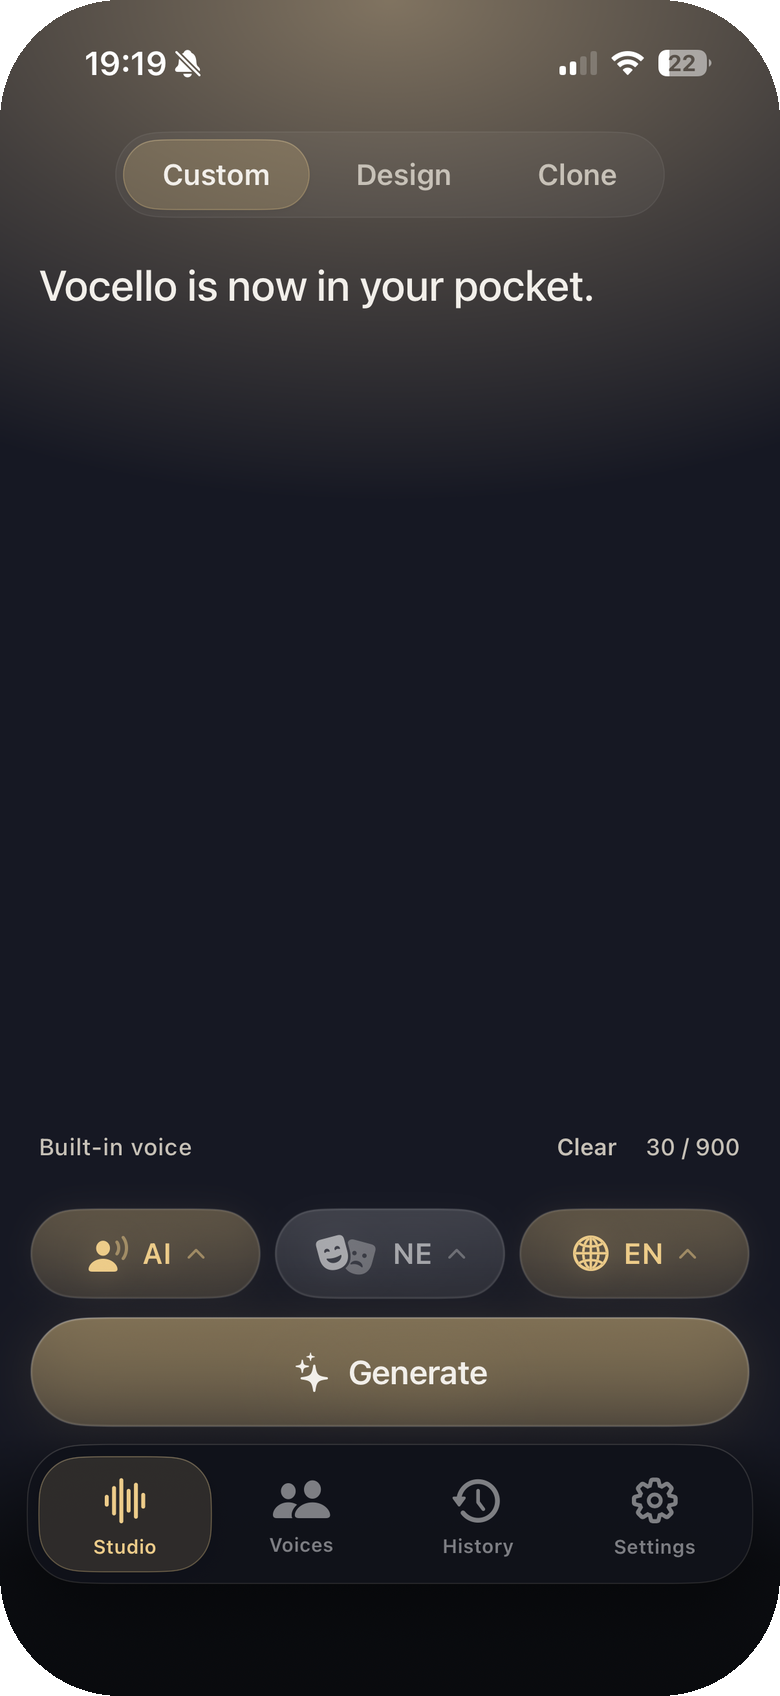
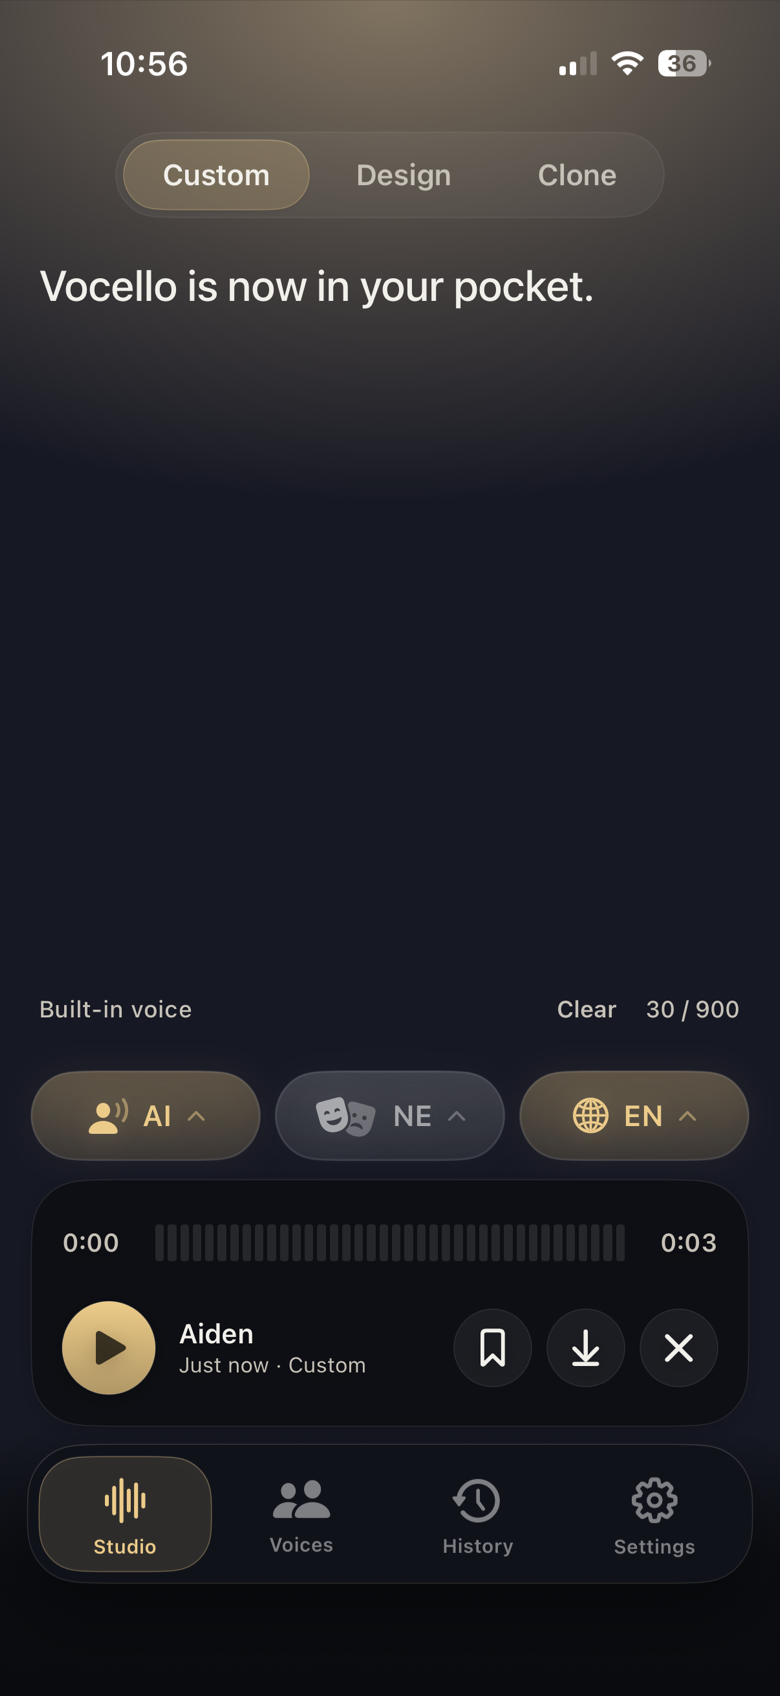
docs(ios): Tier-2 riders close — floor diagnostic, marketing recapture
The iPhone-15-Pro memory-profile diagnostic passes on the promoted
artifacts: custom 2380 MB and design 2878 MB peak phys-footprint against
the clamped 5000 MB floor budget (over 2.1 GB headroom, healthy pressure,
clean EOS; exploratory-only per the forced-profile policy). The iOS studio
marketing shot is recaptured through the new opt-in
VocelloiOSMarketingCaptureUITests (never lane-run): README and website now
show the completed inline-player state instead of the empty studio, at the
incumbent 780-width asset slot. Desktop fixture staging removed after
digest-verifying it duplicates the canonical voice store; the two staged
files in the phone's app Documents are noted for a manual Files-app
deletion since devicectl has no remove operation.

Claude-Session: https://claude.ai/code/session_01VKEyjULPhcNEtmtt3M4AMJ

diff --git a/Tests/VocelloiOSUITests/VocelloiOSMarketingCaptureUITests.swift b/Tests/VocelloiOSUITests/VocelloiOSMarketingCaptureUITests.swift
@@ -1,0 +1,37 @@
+import XCTest
+
+/// Marketing screenshot captures for the README and website (iOS studio).
+///
+/// Not part of any acceptance lane and never run by `scripts/ui_test.sh`:
+/// invoke explicitly with
+/// `-only-testing:VocelloiOSUITests/VocelloiOSMarketingCaptureUITests`.
+/// Drives only genuine visible controls (the same identifiers the smoke lane
+/// observes), attaches captures for asset export, and publishes nothing.
+/// Script copy must follow website/PRODUCT.md rules: local not offline, no em
+/// dashes, current preset names only.
+final class VocelloiOSMarketingCaptureUITests: VocelloiOSUITestCase {
+    func test01_StudioCapture() {
+        beginSession()
+        defer { endSession() }
+
+        assertVisibleModelReadiness()
+        prepare(mode: .custom)
+        replaceScript(with: "Vocello is now in your pocket.")
+
+        // Setup state: script + ready chips + Generate enabled.
+        let generate = element("textInput_generateButton")
+        XCTAssertTrue(VocelloUIWait.enabled(generate, timeout: 60))
+        let setupShot = XCTAttachment(screenshot: XCUIScreen.main.screenshot())
+        setupShot.name = "marketing-ios-studio-setup"
+        setupShot.lifetime = .keepAlways
+        add(setupShot)
+
+        // Completed state: the inline player over the same script shows the
+        // app alive rather than an empty studio.
+        _ = generateAndWaitForCompletedPlayer(timeout: 300)
+        let playerShot = XCTAttachment(screenshot: XCUIScreen.main.screenshot())
+        playerShot.name = "marketing-ios-studio-player"
+        playerShot.lifetime = .keepAlways
+        add(playerShot)
+    }
+}

diff --git a/benchmarks/HISTORY.md b/benchmarks/HISTORY.md
@@ -17,11 +17,23 @@ cross-project comparisons.
 |---|---|---|---|---|---|---:|---|---|---|---|
 | 2026-07-12 | [`ios-engine-20260712-204019-1f40cea8`](runs/engine-generation/ios-engine-20260712-204019-1f40cea8.json) | focused | exploratory | passed | memory-contract-incomplete | 1 | `1ef1669326b5` dirty | `excluded` | baseline | telemetry-v7-headless-final |
 
+## engine-generation / ios / iphone-17-pro / config `4be5479ddc2d`
+
+| completed (UTC) | run | scope | classification | status | memory | takes | source | comparison | trend | label |
+|---|---|---|---|---|---|---:|---|---|---|---|
+| 2026-08-01 | [`ios-engine-20260801-144252-d6160fd7`](runs/engine-generation/ios-engine-20260801-144252-d6160fd7.json) | focused | exploratory | passedWithWarnings | qualified-with-warnings | 1 | `1f9ebeccef8b` | `excluded` | baseline | i15p-floor-custom |
+
 ## engine-generation / ios / iphone-17-pro / config `528ba2c2cfe1`
 
 | completed (UTC) | run | scope | classification | status | memory | takes | source | comparison | trend | label |
 |---|---|---|---|---|---|---:|---|---|---|---|
 | 2026-07-24 | [`ios-engine-20260724-060000-1cc8ef23`](runs/engine-generation/ios-engine-20260724-060000-1cc8ef23.json) | focused | exploratory | passedWithWarnings | qualified-with-warnings | 1 | `f98537cd7115` dirty | `excluded` | baseline | limit-900-proof |
+
+## engine-generation / ios / iphone-17-pro / config `a6ae7ce54378`
+
+| completed (UTC) | run | scope | classification | status | memory | takes | source | comparison | trend | label |
+|---|---|---|---|---|---|---:|---|---|---|---|
+| 2026-08-01 | [`ios-engine-20260801-144748-9d129b7c`](runs/engine-generation/ios-engine-20260801-144748-9d129b7c.json) | focused | exploratory | passedWithWarnings | qualified-with-warnings | 1 | `1f9ebeccef8b` | `excluded` | baseline | i15p-floor-design2 |
 
 ## engine-generation / ios / iphone-17-pro / config `f1c8dc2684fb`
 

diff --git a/docs/development-progress.md b/docs/development-progress.md
@@ -84,7 +84,14 @@ performance block after the fixture rebind, Tier 4 carryover). Immediate specifi
    conservative-valid; the task checkpoint is authoritative over the roadmap's
    redundant re-qual listing). Every take carries only the familiar
    `memory.pressure.soft_trim` advisory plus one warn-level design-short dropout,
-   consistent with the R2a boundary finding.
+   consistent with the R2a boundary finding. Tier-2 riders also closed: the
+   iPhone-15-Pro floor-profile diagnostic (custom 2380 MB / design 2878 MB peak
+   against the clamped 5000 MB budget — over 2.1 GB headroom, healthy pressure;
+   exploratory-only by policy) and the iOS studio marketing recapture (README +
+   website now show the completed-player state via the new opt-in
+   `VocelloiOSMarketingCaptureUITests`). Desktop fixture staging is cleaned up;
+   the two 656 KB staged reference files in the phone's app Documents await a
+   quick manual Files-app deletion (devicectl has no remove operation).
 2. **v2.3.0 released 2026-07-31** (maintainer call): the combined 2.2-promotion + Stage 1
    story is the headline (up to ~10% faster warm, ~280 MB less memory, ~1 GB smaller Speed
    footprint); notes in [`docs/releases/v2.3.0.md`](releases/v2.3.0.md) with the standing

diff --git a/docs/project-health.md b/docs/project-health.md
@@ -4,7 +4,7 @@
 > execute models, devices, UI tests, signing, or network checks.
 
 - Current source identity and dirty state: local JSON report only (kept out of the tracked snapshot to avoid self-referential drift)
-- Swift tests: 441 cases in 61 files
+- Swift tests: 442 cases in 62 files
 - Python tests: 718 cases in 58 files
 - Required-step assurance: 59 steps across 13 workflows, all covered by forced-failure fixtures
 - Unsafe-concurrency annotations: 47 (47 registered with owner and invariant; contract complete)
